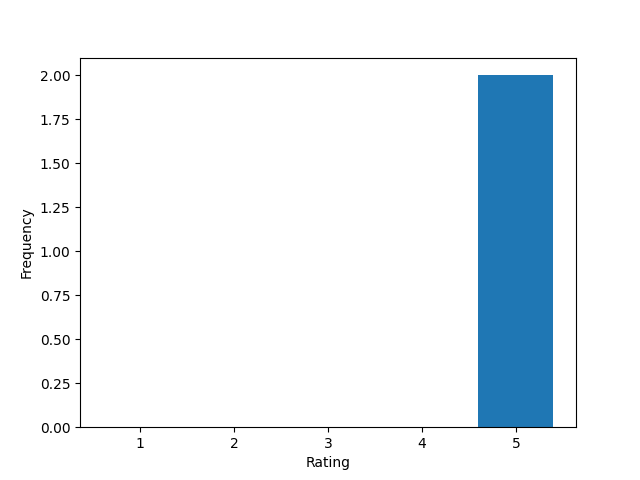
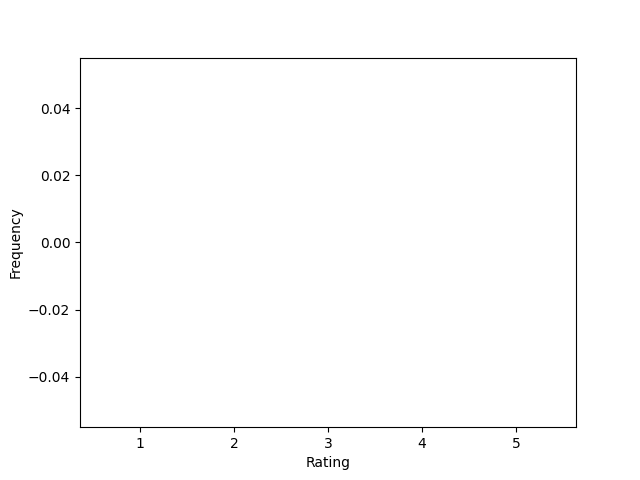
img fixed, delete worning added, doc view

diff --git a/templates/admin.html b/templates/admin.html
@@ -33,6 +33,7 @@
     <!-- -------------------------------------------------------Home page -->
     {% if page == "home" %}
 
+
     <h2>Service</h2>
     <table>
         <tr>
@@ -46,15 +47,19 @@
             <td>{{serv.id}}</td>
             <td>{{serv.sname}}</td>
             <td>{{serv.price}}</td>
-            <td> <a href="/service/edit/{{serv.id}}">Edit</a> / <a href="/service/delete/{{serv.id}}">Delete</a>
+            <!-- <td> <a href="/service/edit/{{serv.id}}">Edit</a> / <a href="/service/delete/{{serv.id}}">Delete</a></td> -->
+
+            <td> <a href="/service/edit/{{serv.id}}">Edit</a> / <a href="/service/delete/{{serv.id}}" title="delete"
+                    class="delete" onclick="return confirm('Are you sure you want to delete this service?')">Delete</a>
             </td>
+
         </tr>
         {% endfor %}
 
     </table>
     <a href="/service/new/0" class="btn btn-primary" role="button">+ New Service</a>
 
-    <h2>Professionals</h2>
+    <h2>New Professionals</h2>
     <table>
         <tr>
             <th>ID</th>
@@ -70,7 +75,7 @@
             <td>{{pro.uid}}</td>
             <td>{{pro.experience}}</td>
             <td>{{pro.sp.sname}}</td>
-            <td><a href="{{pro.document}}">View</a></td>
+            <td><a href="/{{pro.document}}" target="_blank">View</a></td>
             <td><a href="/admin/pro_approve/{{pro.id}}">Approve</a> / <a href="/admin/reject/{{pro.id}}">Reject</a> / <a
                     href="/admin/delete/{{pro.id}}">Delete</a></td>
         </tr>
@@ -111,28 +116,63 @@
 
 
         </select>
-        <input type="search" name="typedtext" placeholder="*">
+        <input type="search" name="typedtext" placeholder="Find all">
         <input type="submit" value="Search">
     </form>
-    
 
-{% if found_data | length == 0%}
-<p>sorry there no data</p>
-{% else %}
-{{found_data}}
 
-{% endif %}
+    {% if found_data | length == 0%}
+    <p>sorry there no data</p>
+    {% else %}
+    <!-- {{found_data}} -->
+    {% if table == "professional" %}
 
-    <h2>Service Requests (closed)</h2>
+    <h2>List of all {{table}}</h2>
     <table>
         <tr>
             <th>ID</th>
-            <th>Assigned Professional (if any)</th>
-            <th>Requested Dt</th>
-            <th>Status(R/A/C)</th>
+            <th>Name</th>
+            <th>Service Name</th>
+            <th>Pin Code</th>
+            <th>Rating</th>
         </tr>
-        
+        {% for item in found_data%}
+        <tr>
+            <td>{{item.id}}</td>
+            <td>{{item.name}}</td>
+            <td>{{item.sp.sname}}</td>
+            <td>{{item.pincode}}</td>
+
+        </tr>
+        {% endfor %}
     </table>
+    {% else %}
+    <h2>List of all {{table}}</h2>
+    <table>
+        <tr>
+            <th>ID</th>
+            <th>Name</th>
+            <th>Phone</th>
+            <th>Pin code</th>
+        </tr>
+        {% for item in found_data%}
+        <tr>
+            <td>{{item.id}}</td>
+            <td>{{item.name}}</td>
+            <td>{{item.phone}}</td>
+            <td>{{item.pincode}}</td>
+
+        </tr>
+        {% endfor %}
+
+    {% endif %}
+
+
+
+
+
+    {% endif %}
+
 
     <!-- -------------------------------------------------------summary page -->
     {% elif page == "summary" %}
@@ -144,11 +184,13 @@
 
         <tr>
             <td> <img src="../{{rating_img}}" alt=" "></td>
-            <td> <img src="../{{status_ing}}" alt=" "></td>
+            <td> <img src="/{{status_ing}}" alt=" "></td>
         </tr>
 
     </table>
 
     {% endif %}
+
+
 
 </body>

diff --git a/templates/customer.html b/templates/customer.html
@@ -57,12 +57,7 @@
         <h2>What are lookinng for?</h2>
         <form class="row row-cols-3 " action="/customer/home/{{id}}" method="post">
             {% for serv in all_service %}
-            <!-- <span class="col mb-3  "> -->
-            <!-- <p>{{serv.description}}</p> -->
-            <!-- <button class="btn btn-light btn-lg align-self-center" type="submit" name="showserv" value="{{serv.id}}">{{serv.sname}}</button> -->
-
-            <!-- </span> -->
-
+            
 
 
             <div class="card col " style="width: 10rem;">
@@ -139,7 +134,7 @@
                 <td> <a class="btn btn-success" href="/remark/{{hist.id}}">close ?</a></td>
                 {% elif hist.service_status == "Requested" %}
                 <td> <a class="btn btn-danger "
-                        href="/request/cancell/{{hist.cust.id}}/{{hist.pro.id}}/{{hist.id}}">cancell request</a></td>
+                        href="/request/cancell/{{hist.cust.id}}/{{hist.pro.id}}/{{hist.id}}" onclick="return confirm('Are you sure you want cancell this service request?')">cancell request</a></td>
                 {% else %}
                 <td>{{hist.service_status}}</td>
                 {% endif %}
@@ -190,8 +185,8 @@
         </tr>
 
         <tr>
-            <td> <img src="../{{rating_img}}" alt=" "></td>
-            <td> <img src="../{{status_ing}}" alt=" "></td>
+            <td> <img src="/{{rating_img}}" alt=" "></td>
+            <td> <img src="/{{status_ing}}" alt=" "></td>
         </tr>
 
     </table>

diff --git a/templates/professional.html b/templates/professional.html
@@ -56,7 +56,7 @@
             <td>{{n.cust.phone}}</td>
             <td>{{n.cust.address}}, {{n.cust.pincode}}</td>
             <td><a href="/request/accept/{{n.rcust_id}}/{{n.rpro_id}}/{{n.id}}">Accept</a> / <a
-                    href="/request/reject/{{n.rcust_id}}/{{n.rpro_id}}/{{n.id}}">Reject</a></td>
+                    href="/request/reject/{{n.rcust_id}}/{{n.rpro_id}}/{{n.id}}" onclick="return confirm('Are you sure you want to Reject?')">Reject</a></td>
         </tr>
         {% endfor %}
     </table>
@@ -136,12 +136,12 @@
         </tr>
 
         <tr>
-            <td> <img src="../{{rating_img}}" alt=" all rating"></td>
-            <td> <img src="../{{status_ing}}" alt=" job status"></td>
+            <td> <img src="/{{rating_img}}" alt=" all rating"></td>
+            <td> <img src="/{{status_ing}}" alt=" job status"></td>
         </tr>
 
     </table>
-    <!-- {{rating_img}} -->
+
 
 
 

diff --git a/templates/signup.html b/templates/signup.html
@@ -50,7 +50,7 @@
             <input type="text" name="uid" id=""> <br>
 
             <label for="">Password :</label>
-            <input type="text" name="pwd" id=""> <br>
+            <input type="password" name="pwd" id=""> <br>
 
             <label for="">Fullname :</label>
             <input type="text" name="name" id=""> <br>

diff --git a/backend/controllers.py b/backend/controllers.py
@@ -144,7 +144,7 @@ def generate_plot(usertype, id):
     plt.savefig(filename2)
 
     return (filename1,filename2)
-
+#  ------------------------------------- searching function
 def search_for_data(table,typedtext='', id=''):
     if table == "service":
         print(table,typedtext)
@@ -152,7 +152,7 @@ def search_for_data(table,typedtext='', id=''):
     elif table == "customer":
         found_data = Customer.query.filter(Customer.name.ilike(f'%{typedtext}%')).all()
     elif table == "professional":
-        found_data = Professional.query.filter(Professional.name.ilike(f'%{typedtext}%')).all()
+        found_data = Professional.query.filter(Professional.name.ilike(f'%{typedtext}%'), Professional.role == 1).all()
     elif table == "pincode":
         found_data = []
     elif table == "date":
@@ -184,10 +184,10 @@ def adminpages(page):
         table = request.form.get("table") 
         typedtext = request.form.get("typedtext")
         found_data = search_for_data(table,typedtext)
-        return render_template("admin.html",page = page , found_data = found_data)
+        return render_template("admin.html",page = page , found_data = found_data , table = table)
     if page == "summary":
         rating_img,status_ing = generate_plot("admin", 0)
-        return render_template("admin.html",page = page,rating_img=rating_img,status_ing=status_ing)
+        return render_template("admin.html",page = page,rating_img = rating_img, status_ing = status_ing)
     
 
 @app.route("/admin/<action>/<int:id>" )#, methods = ["POST"])
@@ -223,7 +223,7 @@ def professional(page, id):
         return render_template("professional.html",page = page ,id = id, found_data = found_data)
     elif page == "summary":
         rating_img,status_ing = generate_plot("professional", id)
-        return render_template("professional.html", page = page, id = id,rating_img=rating_img,status_ing=status_ing)
+        return render_template("professional.html", page = page, id = id,rating_img = rating_img,status_ing = status_ing)
     elif page == "home":
         ar = db.session.query(Request).filter(Request.rpro_id == id, Request.service_status != 'Requested' ).all()
         newreq = Request.query.filter_by(rpro_id = id , service_status = 'Requested')
@@ -285,7 +285,6 @@ def customer(page, id):
 @app.route("/request/<action>/<int:cust>/<int:pro>/<int:job>") 
 def servicereq(action,cust,pro,job):
     if action == "book":
-        # srv = Service.query.filter_by(sname = job).first()
         req = Request(rservice_id = job ,rcust_id = cust, rpro_id = pro, date_of_request = datetime.now(), service_status = 'Requested')
         db.session.add(req)
         db.session.commit()
@@ -323,65 +322,3 @@ def remark(jobid):
     else:
         return render_template("remark.html",request = jobrequest)
 
-# @app.route("/summary/<usertype>/<int:id>")
-# def summary(usertype, id):
-
-#     rating_count = [0,0,0,0,0]
-#     stars = [1,2,3,4,5]
-    
-#     request_status=[0,0,0]
-#     l=["Closed","Requested","Rejected"]
-
-#     if usertype ==  "admin" :
-#         res = Request.query.all()
-
-#     elif usertype == "professional":
-#         res = Request.query.filter_by(rpro_id = id ).all()
-        
-#     elif usertype == "customer":
-#         res = Request.query.filter_by(rcust_id = id ).all()
-    
-
-
-#     for i in res:
-#         if i.rating > 0:
-#             rating_count[i.rating - 1] += 1
-#         if i.service_status == "Closed":
-#             request_status[0] += 1
-#         elif i.service_status == "Requested":
-#             request_status[1] += 1
-#         elif i.service_status == "Rejected":
-#             request_status[2] += 1
-#     plt.clf()
-#     plt.ylabel("Frequency")
-#     plt.xlabel("Rating")
-#     plt.bar(stars,rating_count)
-    
-#     filename1 = f"static/summary_plot/1{usertype}{id}.png"
-#     plt.savefig(filename1)
-
-  
-
-
-    
-#     plt.clf()
-#     plt.ylabel("Frequency")
-#     plt.xlabel("Request status")
-#     plt.bar(l,request_status)
-    
-#     filename2 = f"static/summary_plot/2{usertype}{id}.png"
-#     plt.savefig(filename2)
-
-#     return (filename1,filename2)
-
-
-
-   
-# if type == "course_id":
-#                 plt.clf()
-#                 plt.ylabel("Frequency")
-#                 plt.xlabel("Marks")
-#                 plt.hist(marks)
-
-#                 plt.savefig("static/summary_plot/hist.png")
-#                 picture = "static/summary_plot/hist.png"
